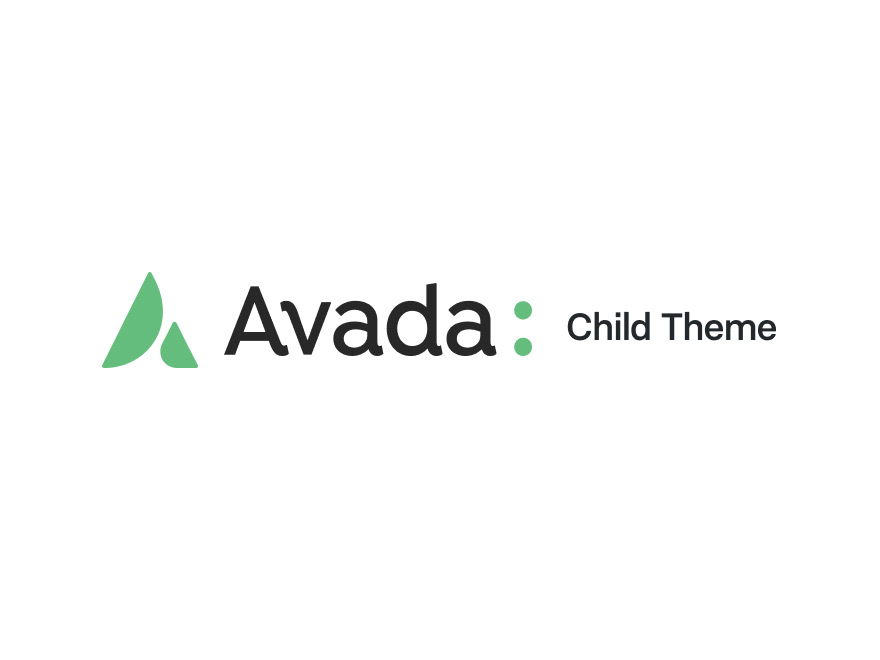
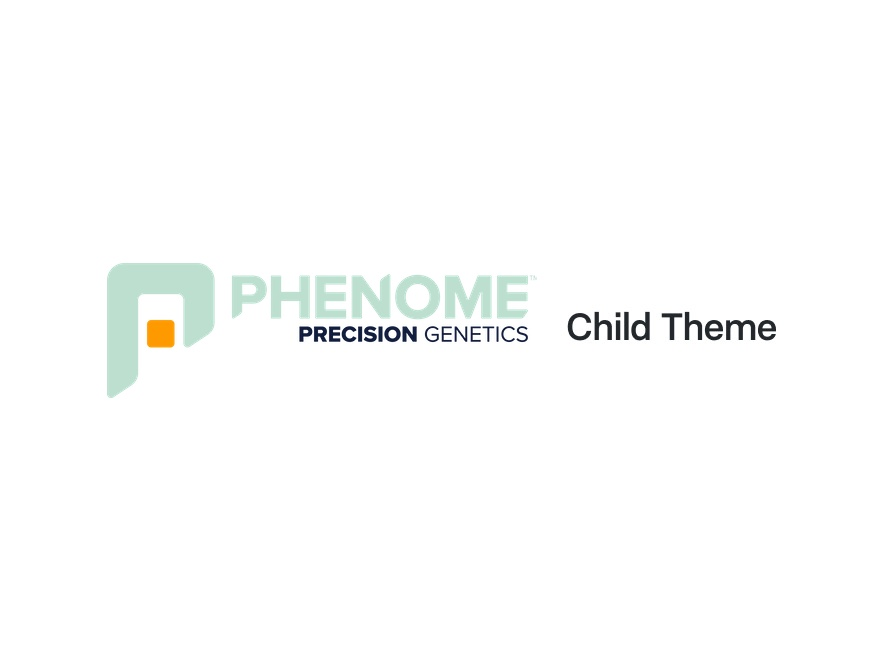
Update branding on the child theme and add version increment script

Changed region(s): [[0.1227, 0.3939, 0.6136, 0.6061]]

diff --git a/scripts/incrementVersion.js b/scripts/incrementVersion.js
@@ -1,0 +1,142 @@
+/* eslint-disable @typescript-eslint/no-var-requires */
+const fs = require('fs/promises');
+const util = require('util');
+const exec = util.promisify(require('child_process').exec);
+const path = require('path');
+
+const ROOT = path.join(__dirname, '..');
+const THEME_STYLE_CSS = path.join(
+  ROOT,
+  'wp-content/themes/Avada-Child-Theme/style.css'
+);
+const PLUGIN_PHP = path.join(
+  ROOT,
+  'wp-content/plugins/phenome-woo-order-migration/phenome-woo-order-migration.php'
+);
+
+function parseSemver(version) {
+  const versionPart = (version || '').split('+')[0].trim();
+  const parts = versionPart.split('.').map((n) => parseInt(n, 10) || 0);
+  return {
+    major: parts[0] ?? 0,
+    minor: parts[1] ?? 0,
+    patch: parts[2] ?? 0,
+  };
+}
+
+function compareSemver(a, b) {
+  const aParsed = parseSemver(a);
+  const bParsed = parseSemver(b);
+  if (aParsed.major !== bParsed.major) return aParsed.major - bParsed.major;
+  if (aParsed.minor !== bParsed.minor) return aParsed.minor - bParsed.minor;
+  return aParsed.patch - bParsed.patch;
+}
+
+function formatVersion(versionObj) {
+  return `${versionObj.major}.${versionObj.minor}.${versionObj.patch}`;
+}
+
+function extractVersionFromStyleCss(content) {
+  const m = content.match(/Version:\s*([\d.]+)/i);
+  return m ? m[1].trim() : null;
+}
+
+function extractVersionFromPluginPhp(content) {
+  const header = content.match(/\*\s*Version:\s*([\d.]+)/);
+  const define = content.match(/define\s*\(\s*['"]PHENOME_WOO_MIGRATION_VERSION['"]\s*,\s*['"]([^'"]+)['"]\s*\)/);
+  return header ? header[1].trim() : define ? define[1].trim() : null;
+}
+
+const main = async () => {
+  const command = process.argv[2] ?? 'build';
+
+  if (!new Set(['build', 'hotfix', 'minor', 'major']).has(command)) {
+    console.error('INVALID: pass one of [build hotfix minor major]');
+    console.info('received: ', command);
+    process.exit(-1);
+  }
+
+  console.log('Checking for uncommitted files');
+  try {
+    await exec('git update-index --refresh 2>/dev/null || true');
+    await exec('git diff-index --quiet HEAD --');
+  } catch (e) {
+    console.error('ERROR: There are uncommitted changes');
+    console.log('Commit or revert changed files first');
+    process.exit(-1);
+  }
+
+  const styleContent = await fs.readFile(THEME_STYLE_CSS, 'utf-8');
+  const pluginContent = await fs.readFile(PLUGIN_PHP, 'utf-8');
+
+  const themeVersion = extractVersionFromStyleCss(styleContent);
+  const pluginVersion = extractVersionFromPluginPhp(pluginContent);
+
+  if (!themeVersion || !pluginVersion) {
+    console.error('ERROR: Could not parse version from theme style.css or plugin PHP');
+    process.exit(-1);
+  }
+
+  console.log('Current versions:');
+  console.log(`  Theme (style.css): ${themeVersion}`);
+  console.log(`  Plugin: ${pluginVersion}`);
+
+  const maxVersion =
+    compareSemver(themeVersion, pluginVersion) >= 0 ? themeVersion : pluginVersion;
+  console.log(`Version to bump: ${maxVersion}`);
+
+  const parsed = parseSemver(maxVersion);
+  const newVersion = (() => {
+    switch (command) {
+      case 'build':
+        return formatVersion({ ...parsed, patch: parsed.patch + 1 });
+      case 'hotfix':
+        return formatVersion({ ...parsed, patch: parsed.patch + 1 });
+      case 'minor':
+        return formatVersion({
+          major: parsed.major,
+          minor: parsed.minor + 1,
+          patch: 0,
+        });
+      case 'major':
+        return formatVersion({
+          major: parsed.major + 1,
+          minor: 0,
+          patch: 0,
+        });
+      default:
+        return maxVersion;
+    }
+  })();
+
+  console.log(`New version: ${newVersion}`);
+
+  const updatedStyle = styleContent.replace(
+    /(Version:\s*)[\d.]+/i,
+    `$1${newVersion}`
+  );
+  await fs.writeFile(THEME_STYLE_CSS, updatedStyle);
+
+  let updatedPlugin = pluginContent.replace(
+    /\*\s*Version:\s*[\d.]+/,
+    `* Version: ${newVersion}`
+  );
+  updatedPlugin = updatedPlugin.replace(
+    /(define\s*\(\s*['"]PHENOME_WOO_MIGRATION_VERSION['"]\s*,\s*['"])[^'"]+(['"]\s*\))/,
+    `$1${newVersion}$2`
+  );
+  await fs.writeFile(PLUGIN_PHP, updatedPlugin);
+
+  console.log('All versions updated successfully');
+  console.log(`Committing version ${newVersion}...`);
+
+  await exec(`git add "${THEME_STYLE_CSS}" "${PLUGIN_PHP}"`);
+  await exec(`git commit -m "Build ${newVersion}"`);
+
+  console.log('Version update complete!');
+};
+
+main().catch((error) => {
+  console.error('Error:', error);
+  process.exit(-1);
+});

diff --git a/wp-content/themes/Avada-Child-Theme/style.css b/wp-content/themes/Avada-Child-Theme/style.css
@@ -1,12 +1,12 @@
 /*
 
-Theme Name: Avada Child
+Theme Name: Phenome Theme
 
-Description: Child theme for Avada theme
+Description: Child theme for Phenome.com based on the Avada theme
 
-Author: ThemeFusion
+Author: Modern Logic
 
-Author URI: https://theme-fusion.com
+Author URI: https://modernlogic.io
 
 Template: Avada
 
@@ -16,26 +16,29 @@ Text Domain:  Avada
 
 */
 
-        .metacollapsible {
-            background-color: #777;
-            color: white;
-            cursor: pointer;
-            padding: 10px;
-            width: 100%;
-            border: none;
-            text-align: left;
-            outline: none;
-            font-size: 15px;
-        }
+.metacollapsible {
+  background-color: #777;
+  color: white;
+  cursor: pointer;
+  padding: 10px;
+  width: 100%;
+  border: none;
+  text-align: left;
+  outline: none;
+  font-size: 15px;
+}
 
-        .metaactive, .metacollapsible:hover {
-            background-color: #555;
-        }
+.metaactive,
+.metacollapsible:hover {
+  background-color: #555;
+}
 
-        .metacontent {
-            padding: 0 18px;
-            display: none;
-            overflow: hidden;
-            background-color: #f1f1f1;
-        }
-        .shop_table .product-thumbnail{display:none!important}
+.metacontent {
+  padding: 0 18px;
+  display: none;
+  overflow: hidden;
+  background-color: #f1f1f1;
+}
+.shop_table .product-thumbnail {
+  display: none !important;
+}
